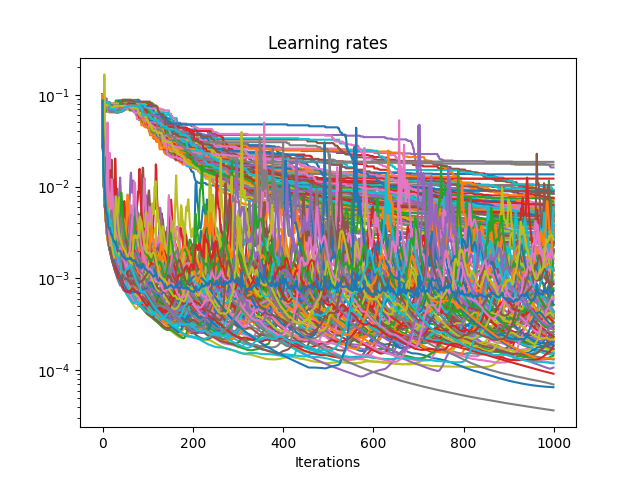
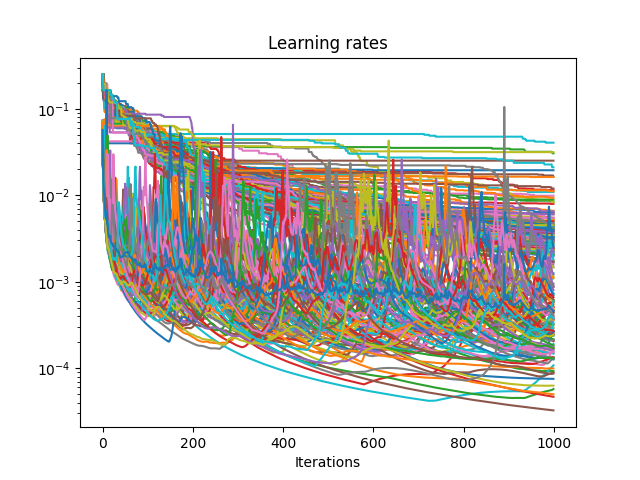
Small adjustments and new Evaluation

diff --git a/my_utils.py b/my_utils.py
@@ -2,10 +2,9 @@ import random
 
 import numpy as np
 import torch
-from deprecation import deprecated
 from einops import rearrange
-from torch import Tensor
 from scipy.special import logsumexp
+from torch import Tensor
 
 
 def spike_in_range(spike_times, time_ranges):
@@ -210,8 +209,6 @@ def normalized_conditional_cross_entropy_paper(joint_probabilities):
         normalized_cond_cross_entropy: normalized conditional cross entropy [shape (time,)]
     """
 
-    # todo: deal with zeros
-
     # compute conditional probabilities
     conditional_probabilities = joint_probabilities / np.sum(joint_probabilities, axis=-2, keepdims=True)
 
@@ -236,8 +233,6 @@ def normalized_conditional_cross_entropy(joint_probabilities):
     Output:
         normalized_cond_cross_entropy: normalized conditional cross entropy [shape (time,)]
     """
-
-    # todo: deal with zeros
 
     # compute conditional probabilities
     conditional_probabilities = joint_probabilities / np.sum(joint_probabilities, axis=-2, keepdims=True)
@@ -308,7 +303,8 @@ def get_input_log_likelihood(weights, biases, inputs, c=1.):
 
     with np.errstate(divide='ignore'):
         group_normalized_single_input_log_likelihoods = np.log(single_input_likelihoods
-                                                               / (np.sum(single_input_likelihoods, axis=-1, keepdims=True)
+                                                               / (np.sum(single_input_likelihoods, axis=-1,
+                                                                         keepdims=True)
                                                                   + 1e-10))
 
     # # more readable but susceptible to numerical errors (0 * -inf = nan)
@@ -324,14 +320,6 @@ def get_input_log_likelihood(weights, biases, inputs, c=1.):
     input_log_likelihood = logsumexp(input_log_likelihood_per_output_neuron + normalized_log_priors, axis=-1)
 
     return input_log_likelihood
-
-
-# todo
-# joint = get_joint_probabilities_over_time_for_rates(probs, train_time_ranges)
-# plt.plot(normalized_conditional_cross_entropy(moving_avg(joint, 500, 0)))
-def moving_avg(arr, len, axis):
-    filt = np.ones(len) / len
-    return np.apply_along_axis(lambda m: np.convolve(m, filt, mode='valid'), axis=axis, arr=arr)
 
 
 def reorder_dataset_by_targets(data, targets):

diff --git a/mnist_experiment_with_plotting.py b/mnist_experiment_with_plotting.py
@@ -1,3 +1,4 @@
+import dataclasses
 import json
 import os
 
@@ -87,7 +88,7 @@ model_config = ModelConfig(
     stdp_config=STDPConfig(
         c=1.,
         time_batch_size=10,
-        method=STDPAdaptiveConfig(base_mu=2e-1, base_mu_bias=2e-1)
+        method=STDPAdaptiveConfig(base_mu=5e-1, base_mu_bias=5e-1)
         # method=STDPClassicConfig(base_mu=1., base_mu_bias=1.)
     ),
     output_cell_config=OutputCellConfig(
@@ -105,8 +106,9 @@ model_config = ModelConfig(
 os.makedirs(f'./results/mnist/{experiment_name}', exist_ok=True)
 
 # save base config
-with open(f'./results/mnist/{experiment_name}/{experiment_name}_base_config.txt', 'w') as f:
-    f.write(str(model_config))
+with open(f'./results/mnist/{experiment_name}/{experiment_name}_model_config.json', 'w') as f:
+    json.dump(dataclasses.asdict(model_config), f, indent=4)
+
 with open(f'./results/mnist/{experiment_name}/{experiment_name}_data_config.json', 'w') as f:
     json.dump({
         'batch_size': batch_size,

diff --git a/binary_pattern_experiment_with_plotting.py b/binary_pattern_experiment_with_plotting.py
@@ -1,3 +1,4 @@
+import dataclasses
 import json
 import os
 
@@ -83,8 +84,8 @@ model_config = ModelConfig(
 os.makedirs(f'./results/single_run/{experiment_name}', exist_ok=True)
 
 # save base config
-with open(f'./results/single_run/{experiment_name}/{experiment_name}_base_config.txt', 'w') as f:
-    f.write(str(model_config))
+with open(f'./results/single_run/{experiment_name}/{experiment_name}_model_config.json', 'w') as f:
+    json.dump(dataclasses.asdict(model_config), f, indent=4)
 
 with open(f'./results/single_run/{experiment_name}/{experiment_name}_data_config.json', 'w') as f:
     json.dump({

diff --git a/binary_pattern_experiment_config_evaluation.py b/binary_pattern_experiment_config_evaluation.py
@@ -52,8 +52,6 @@ def init_binary_pattern_dataset(seed=None):
     train_loader = DataLoader(binary_train, batch_size=data_config.batch_size, shuffle=False)
     test_loader = DataLoader(binary_test, batch_size=data_config.batch_size, shuffle=False)
 
-    # distinct_targets = binary_train.pattern_ids.unique().cpu().numpy()
-
     return train_loader, test_loader
 
 

diff --git a/train_test_loop.py b/train_test_loop.py
@@ -32,12 +32,14 @@ class STDPMethodConfig:
 
 @dataclass
 class STDPClassicConfig(STDPMethodConfig):
+    type: str = 'classic'
     base_mu: float = 1.
     base_mu_bias: float = 1.
 
 
 @dataclass
 class STDPAdaptiveConfig(STDPMethodConfig):
+    type: str = 'adaptive'
     base_mu: float = 5e-1
     base_mu_bias: float = 5e-1
     min_mu: float = 1e-6
